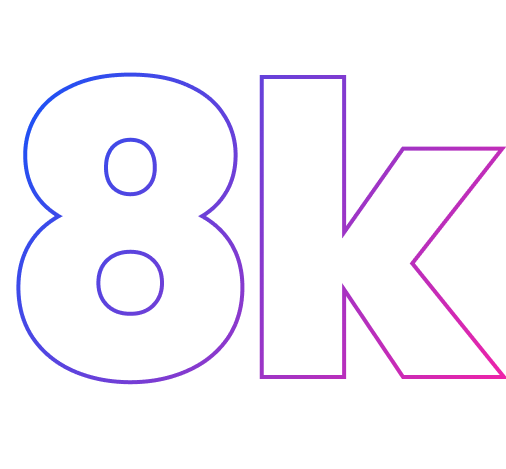
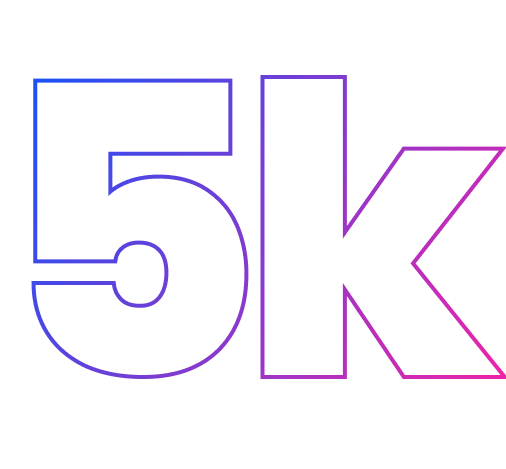
ajustes

diff --git a/index.html b/index.html
@@ -144,7 +144,7 @@
                             <h1>
                                 As equipes concorrem a um super prêmio total de
                                 <b>
-                                    8 mil reais + </b>
+                                    5 mil reais + </b>
                                 produtos gamers
                             </h1>
                             <div class="awards_button">
@@ -158,10 +158,10 @@
                     </div>
                 </div>
 
-                <div class="games_row" style="margin-top: 3rem;" id="rules">
+                <div class="games_row" id="rules">
                     <div data-aos="fade-down" class="game_item"
                         style="background-image: 
-                        linear-gradient(307.42deg, #090B36 0%, rgba(9, 11, 54, 0) 100.99%), url('assets/images/games/lol.png');gap: 94px;">
+                        linear-gradient(307.42deg, #090B36 0%, rgba(9, 11, 54, 0) 100.99%), url('assets/images/games/lol.png');">
                         <div class="game_logo">
                             <img src="assets/images/games/league-of-legends.png" alt="">
                         </div>
@@ -172,7 +172,7 @@
 
                     <div data-aos="fade-down" class="game_item"
                         style="background-image: 
-                        linear-gradient(307.42deg, #090B36 0%, rgba(9, 11, 54, 0) 100.99%), url('assets/images/games/fifa_background.png');">
+                    linear-gradient(307.42deg, #090B36 0%, rgba(9, 11, 54, 0) 100.99%), url('assets/images/games/fifa_background.png');">
                         <div class="game_logo">
                             <img src="assets/images/games/fifa_logo.png" alt="">
                         </div>
@@ -183,14 +183,16 @@
 
                     <div data-aos="fade-down" class="game_item"
                         style="background-image: 
-                        linear-gradient(307.42deg, #090B36 0%, rgba(9, 11, 54, 0) 100.99%), url('assets/images/games/valorante_background.png');">
+                linear-gradient(307.42deg, #090B36 0%, rgba(9, 11, 54, 0) 100.99%), url('assets/images/games/valorante_background.png');">
                         <div class="game_logo">
-                            <img src="assets/images/games/valorant_logo.png" alt="" style="    margin-top: 174px;">
+                            <img src="assets/images/games/valorant_logo.png" alt="">
                         </div>
                         <div class="game_item-buttons">
                             <button class="btn btn-outline-rules">Em breve</button>
                         </div>
                     </div>
+
+
                 </div>
 
                 <div class="countdown" data-aos="fade-up" data-aos-duration="3000">
@@ -298,7 +300,7 @@
 
                 <h2 class="tx-center">É fácil se inscrever</h2>
 
-                <div class="registration_timeline only-md" >
+                <div class="registration_timeline only-md">
 
                     <div class="only-md" data-aos="zoom-out">
                         <svg width="1120" height="80" viewBox="0 0 1120 80" fill="none"
@@ -535,7 +537,7 @@
                                 <select class="form-select" name="Jogo_pretendido" required>
                                     <option value="">Selecione</option>
                                     <option value="League Of Legends">League Of Legends</option>
-                                    <option value="Fifa">Fifa</option>
+                                    <option value="FIFA 2023">FIFA 2023</option>
                                     <option value="Valorant">Valorant</option>
                                 </select>
                             </div>
@@ -544,7 +546,8 @@
                                 <button type="submit" class="btn-primary w-100 btn-submit-form ">Enviar</button>
                                 <div class="alert alert-success d-none " style=" padding: 5px;" role=" alert">
                                     Pré-Inscrição realizada com sucesso. <br><small>As instruções serão encaminhadas via
-                                        e-mail.</small>
+                                        e-mail.
+                                    </small>
                                 </div>
                             </div>
                         </form>
@@ -681,6 +684,5 @@
         AOS.init();
     </script>
 </body>
-
 
 </html>

diff --git a/assets/main.css b/assets/main.css
@@ -502,6 +502,7 @@ section#awards .awards_info h1 .awards_price {
   font-family: "Abhaya Libre";
 }
 section#awards .games_row {
+  margin-top: 3rem;
   display: flex;
   align-items: center;
   justify-content: space-around;
@@ -514,18 +515,24 @@ section#awards .games_row .game_item {
   justify-content: center;
   background: rgba(76, 29, 149, 0.4);
   border-radius: 32px;
-  align-content: baseline;
+  align-content: center;
   gap: 101px;
 }
-section#awards .games_row .game_item .game_logo img {
+section#awards .games_row .game_item .game_logo {
+  text-align: center;
   margin-top: 212px;
+  text-align: center;
+}
+section#awards .games_row .game_item .game_logo img {
+  max-width: 50%;
 }
 section#awards .games_row .game_item .game_item-buttons {
   text-align: center;
+  align-self: self-end;
 }
 section#awards .games_row .game_item .game_item-buttons button.btn-outline-rules {
   align-self: self-end;
-  margin-bottom: 64px;
+  margin: -1px 0 64px;
 }
 section#awards .countdown {
   margin-top: 5rem;
@@ -805,7 +812,7 @@ section.helper .helper_text-classificatorio {
   margin-top: 3rem;
   align-self: center;
   align-items: center;
-  gap: 24px;
+  gap: 16px;
   display: grid;
 }
 .enrollment .enrollment_info h6 {

diff --git a/assets/custom/pages/_hero.scss b/assets/custom/pages/_hero.scss
@@ -214,6 +214,7 @@ section#awards {
     }
 
     .games_row {
+        margin-top: 3rem;
         display: flex;
         align-items: center;
         justify-content: space-around;
@@ -226,21 +227,24 @@ section#awards {
             justify-content: center;
             background: rgba(76, 29, 149, 0.4);
             border-radius: 32px;
-            align-content: baseline;
+            align-content: center;
             gap: 101px;
-
             .game_logo {
+                text-align: center;
+                margin-top: 212px;
+                text-align: center;
                 img {
-                    margin-top: 212px;
+                    max-width: 50%;
                 }
             }
 
             .game_item-buttons {
                 text-align: center;
+                align-self: self-end;
 
                 button.btn-outline-rules {
                     align-self: self-end;
-                    margin-bottom: 64px;
+                    margin: -1px 0 64px;
                 }
             }
         }

diff --git a/README.md b/README.md
@@ -1,3 +1,4 @@
-HSL color mode
-w3schools: https://www.w3schools.com/colors/colo...
-Dopely: https://colors.dopely.top/
+Gabriel Gobbi .dev
+
+https://gobbi.dev.br/
+https://www.instagram.com/gabrielvgobbi.dev/
